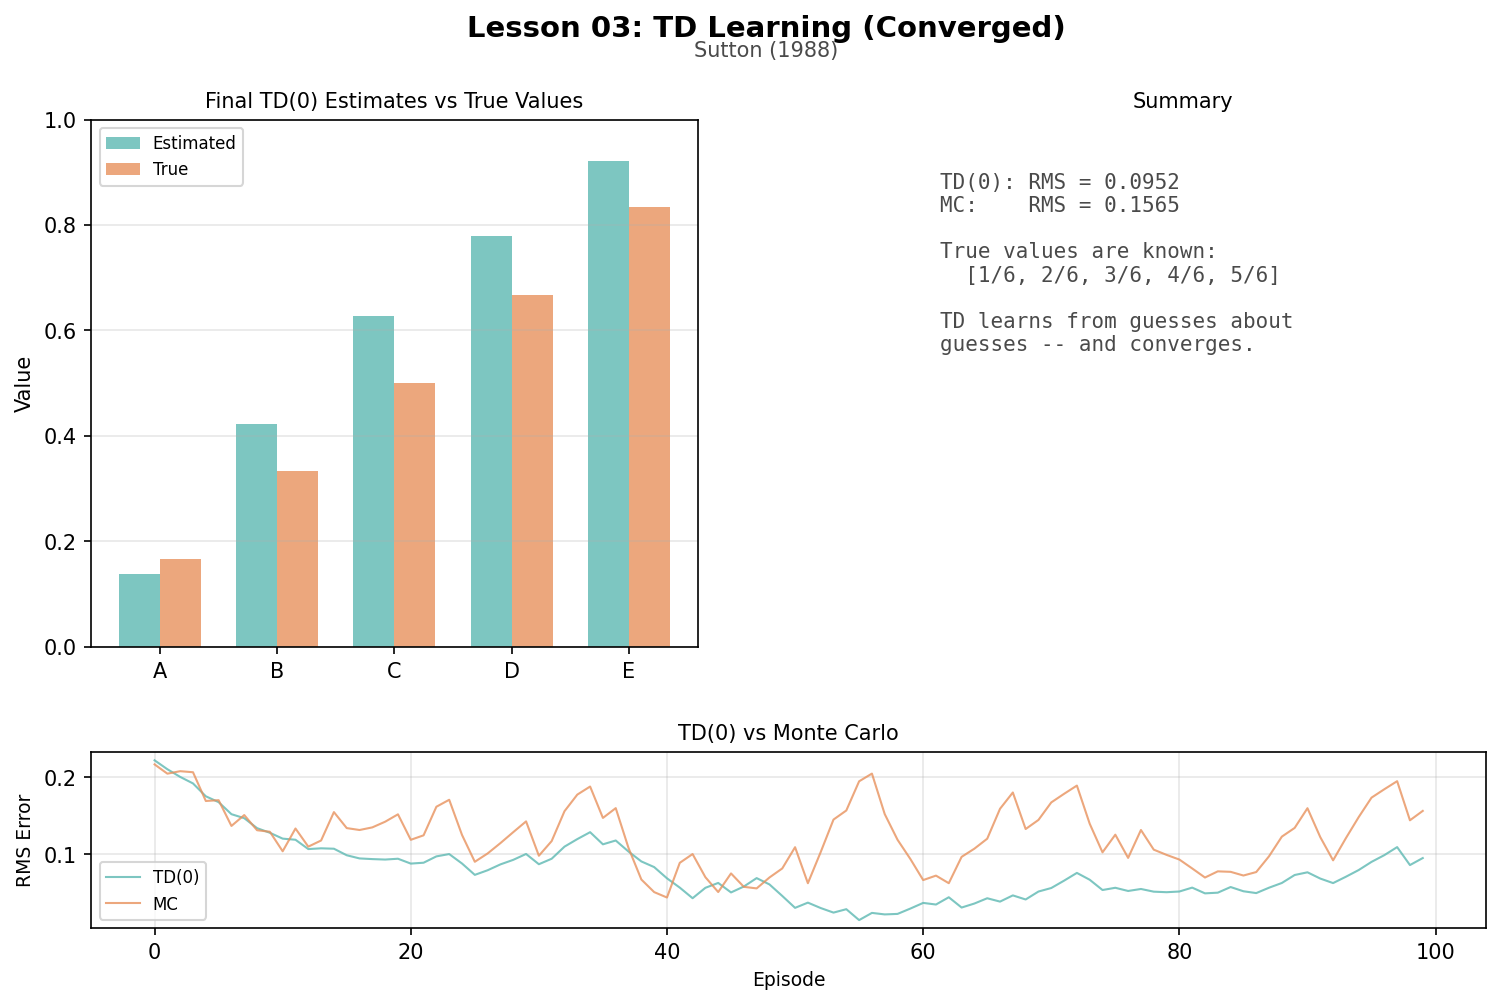
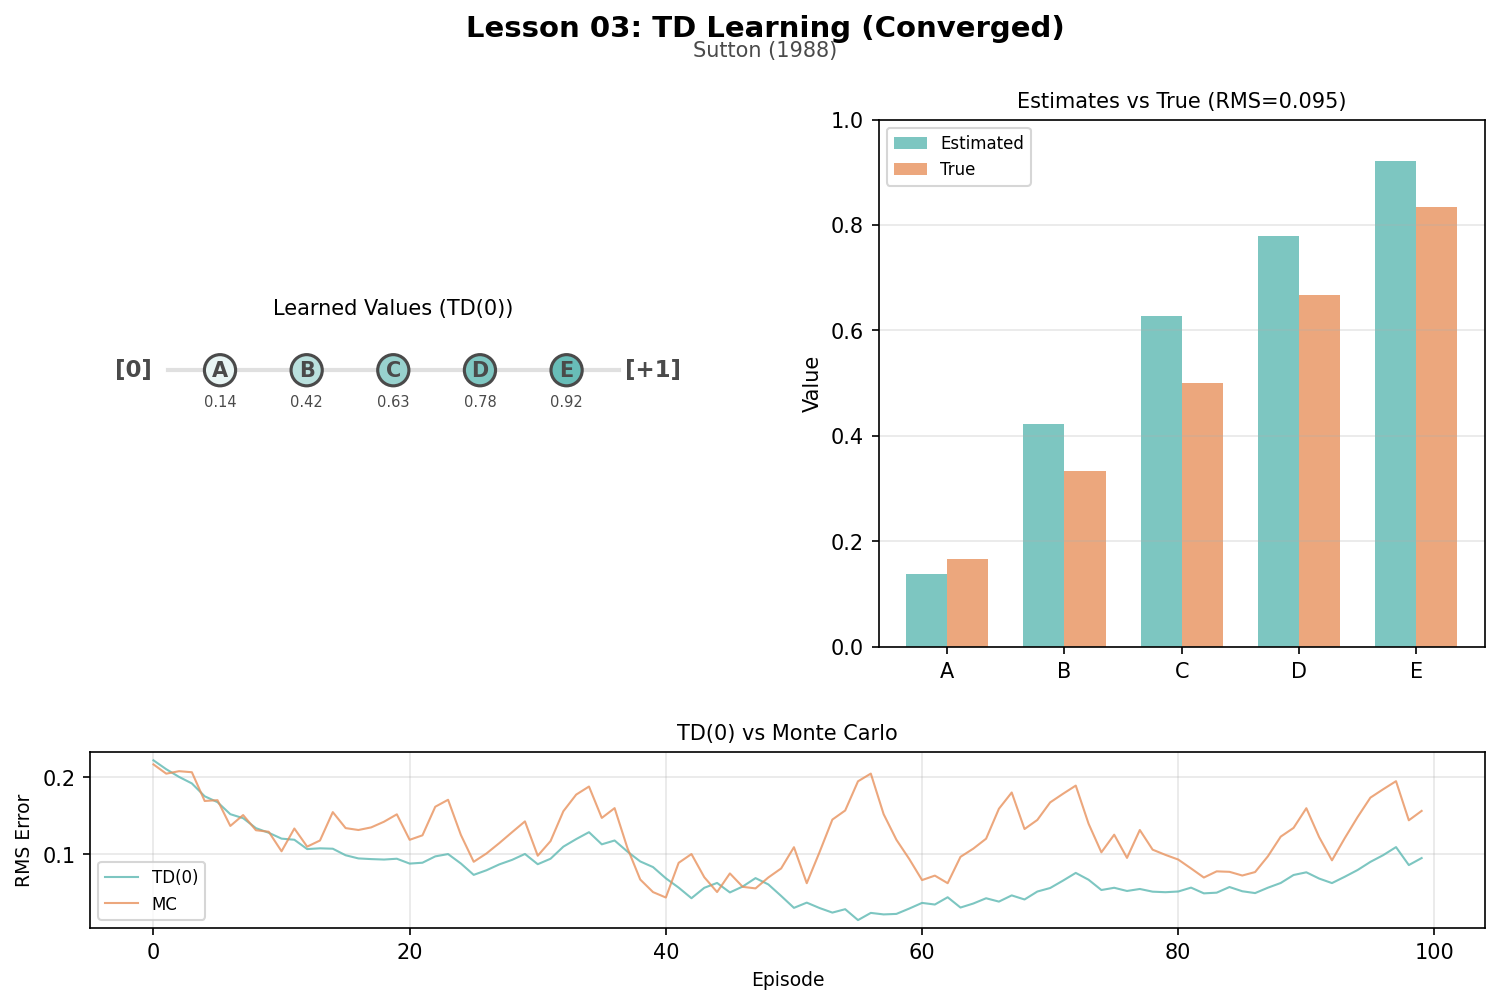
Adds chain visualization to Lesson 03 animation
trajectories.py: new draw_chain() renders a horizontal chain of
  state nodes with value-shaded fills, agent path overlay, and
  highlighted terminal outcome ([0] red / [+1] green).

td_learner.py: td_zero now records path (visited states) and
  outcome (left/right) per episode in history for viz.

03_td_learning.py: animation env pane now shows the chain diagram
  with the episode's walk path and node values. Bar chart moved
  to algo pane with RMS in the title. Poster shows chain with
  final learned values alongside bar chart comparison.

diff --git a/lessons/03_td_learning.py b/lessons/03_td_learning.py
@@ -21,6 +21,7 @@ from policywerk.viz.animate import (
 )
 from policywerk.viz.values import draw_value_bars
 from policywerk.viz.traces import update_trace_axes
+from policywerk.viz.trajectories import draw_chain
 
 import matplotlib
 matplotlib.use("Agg")
@@ -36,6 +37,8 @@ class TDSnapshot(FrameSnapshot):
     estimated: list[float]
     rms: float
     episode_num: int
+    path: list[str] | None = None
+    outcome: str | None = None
 
 
 # ---------------------------------------------------------------------------
@@ -302,6 +305,8 @@ def main():
                 estimated=h["values"],
                 rms=h["rms"],
                 episode_num=ep_idx,
+                path=h.get("path"),
+                outcome=h.get("outcome"),
             ))
 
     true_values = list(RandomWalk.TRUE_VALUES)
@@ -319,27 +324,17 @@ def main():
     def update(frame_idx):
         snap = snapshots[frame_idx]
 
-        # Top-left: bar chart of estimated vs true values
-        draw_value_bars(axes["env"], snap.estimated, true_values, labels)
-        axes["env"].set_ylim(0, 1.0)
-        axes["env"].set_title(f"Value Estimates -- Episode {snap.episode_num}", fontsize=10)
+        # Top-left: chain diagram showing the walk path and current values
+        outcome_label = snap.outcome if snap.outcome else None
+        draw_chain(axes["env"], labels, values=snap.estimated,
+                   path=snap.path, outcome=outcome_label)
+        result = f"-> {'won' if snap.outcome == 'right' else 'lost'}" if snap.outcome else ""
+        axes["env"].set_title(f"Episode {snap.episode_num} {result}", fontsize=10)
 
-        # Top-right: info
-        axes["algo"].clear()
-        axes["algo"].axis("off")
-        info_lines = [
-            f"Episode: {snap.episode_num}",
-            f"RMS error: {snap.rms:.4f}",
-            "",
-            f"Method: TD(0)",
-            f"alpha: {alpha}",
-            f"gamma: {gamma}",
-        ]
-        text = "\n".join(info_lines)
-        axes["algo"].text(0.1, 0.9, text, transform=axes["algo"].transAxes,
-                          fontsize=10, verticalalignment="top",
-                          fontfamily="monospace", color=DARK_GRAY)
-        axes["algo"].set_title("Training State", fontsize=10)
+        # Top-right: bar chart of estimated vs true values
+        draw_value_bars(axes["algo"], snap.estimated, true_values, labels)
+        axes["algo"].set_ylim(0, 1.0)
+        axes["algo"].set_title(f"Estimates vs True (RMS={snap.rms:.3f})", fontsize=10)
 
         # Bottom: RMS error trace
         n = min(snap.episode_num + 1, len(real_rms))
@@ -361,24 +356,14 @@ def main():
     )
 
     def update_poster(frame_idx):
-        draw_value_bars(axes2["env"], hist_td[-1]["values"], true_values, labels)
-        axes2["env"].set_ylim(0, 1.0)
-        axes2["env"].set_title("Final TD(0) Estimates vs True Values", fontsize=10)
+        # Chain with final learned values
+        draw_chain(axes2["env"], labels, values=hist_td[-1]["values"])
+        axes2["env"].set_title("Learned Values (TD(0))", fontsize=10)
 
-        axes2["algo"].clear()
-        axes2["algo"].axis("off")
-        info = (
-            f"TD(0): RMS = {hist_td[-1]['rms']:.4f}\n"
-            f"MC:    RMS = {hist_mc[-1]['rms']:.4f}\n\n"
-            f"True values are known:\n"
-            f"  [1/6, 2/6, 3/6, 4/6, 5/6]\n\n"
-            f"TD learns from guesses about\n"
-            f"guesses -- and converges."
-        )
-        axes2["algo"].text(0.1, 0.9, info, transform=axes2["algo"].transAxes,
-                           fontsize=10, verticalalignment="top",
-                           fontfamily="monospace", color=DARK_GRAY)
-        axes2["algo"].set_title("Summary", fontsize=10)
+        # Bar chart comparison
+        draw_value_bars(axes2["algo"], hist_td[-1]["values"], true_values, labels)
+        axes2["algo"].set_ylim(0, 1.0)
+        axes2["algo"].set_title(f"Estimates vs True (RMS={hist_td[-1]['rms']:.3f})", fontsize=10)
 
         # Show both TD and MC RMS curves
         axes2["trace"].plot(range(num_episodes), [h["rms"] for h in hist_td],

diff --git a/src/policywerk/viz/trajectories.py b/src/policywerk/viz/trajectories.py
@@ -55,6 +55,91 @@ def draw_target(
                marker="*", zorder=10, edgecolors=DARK_GRAY, linewidths=0.5)
 
 
+def draw_chain(
+    ax: plt.Axes,
+    labels: list[str],
+    values: list[float] | None = None,
+    path: list[str] | None = None,
+    outcome: str | None = None,
+) -> None:
+    """Draw a chain of states (e.g. the random walk A-B-C-D-E).
+
+    labels: state names in order (left to right).
+    values: optional value estimates for each state (shown as color fill).
+    path: optional list of state labels visited this episode (drawn as line).
+    outcome: "left" or "right" — which terminal was reached.
+    """
+    n = len(labels)
+    node_y = 0.5
+    spacing = 1.0
+
+    ax.clear()
+    ax.set_xlim(-1.5, n * spacing + 0.5)
+    ax.set_ylim(-0.3, 1.0)
+    ax.set_aspect("equal")
+    ax.axis("off")
+
+    # Draw terminal zones
+    ax.text(-1.0, node_y, "[0]", ha="center", va="center", fontsize=11,
+            fontweight="bold", color="red" if outcome == "left" else DARK_GRAY)
+    ax.text(n * spacing, node_y, "[+1]", ha="center", va="center", fontsize=11,
+            fontweight="bold", color="green" if outcome == "right" else DARK_GRAY)
+
+    # Draw connecting lines between nodes
+    for i in range(n - 1):
+        ax.plot([i * spacing + 0.2, (i + 1) * spacing - 0.2], [node_y, node_y],
+                color=LIGHT_GRAY, linewidth=2, zorder=1)
+    # Lines to terminals
+    ax.plot([-0.6, -0.2], [node_y, node_y], color=LIGHT_GRAY, linewidth=2, zorder=1)
+    ax.plot([(n - 1) * spacing + 0.2, n * spacing - 0.4], [node_y, node_y],
+            color=LIGHT_GRAY, linewidth=2, zorder=1)
+
+    # Draw the path if provided (line through visited nodes)
+    if path and len(path) > 1:
+        path_xs = []
+        path_ys = []
+        for label in path:
+            if label in labels:
+                idx = labels.index(label)
+                path_xs.append(idx * spacing)
+                path_ys.append(node_y)
+        # Add terminal position
+        if outcome == "left":
+            path_xs.append(-1.0)
+            path_ys.append(node_y)
+        elif outcome == "right":
+            path_xs.append(n * spacing)
+            path_ys.append(node_y)
+        # Offset path slightly below nodes so it's visible
+        path_ys_offset = [y - 0.12 for y in path_ys]
+        ax.plot(path_xs, path_ys_offset, color=TEAL, linewidth=1.5, alpha=0.5, zorder=2)
+
+    # Draw nodes
+    for i, label in enumerate(labels):
+        x = i * spacing
+        # Color node by value if provided
+        if values is not None:
+            val = values[i]
+            # Map value 0-1 to color intensity (white to teal)
+            r = int(255 - val * (255 - 92))   # 92 = 0x5C (TEAL red)
+            g = int(255 - val * (255 - 184))   # 184 = 0xB8 (TEAL green)
+            b = int(255 - val * (255 - 178))   # 178 = 0xB2 (TEAL blue)
+            color = f"#{r:02x}{g:02x}{b:02x}"
+        else:
+            color = "white"
+
+        circle = plt.Circle((x, node_y), 0.18, facecolor=color,
+                             edgecolor=DARK_GRAY, linewidth=1.5, zorder=5)
+        ax.add_patch(circle)
+        ax.text(x, node_y, label, ha="center", va="center",
+                fontsize=10, fontweight="bold", color=DARK_GRAY, zorder=6)
+
+        # Show value below node
+        if values is not None:
+            ax.text(x, node_y - 0.28, f"{values[i]:.2f}", ha="center",
+                    va="top", fontsize=7, color=DARK_GRAY)
+
+
 def draw_pole(
     ax: plt.Axes,
     angle: float,

diff --git a/src/policywerk/actors/td_learner.py b/src/policywerk/actors/td_learner.py
@@ -87,6 +87,8 @@ def td_zero(
 
     for ep in range(num_episodes):
         state = env.reset()
+        path: list[str] = [state.label]  # track visited states for viz
+        outcome = None
 
         while True:
             # Random policy: equal probability left/right
@@ -97,6 +99,7 @@ def td_zero(
                 # Terminal state has value 0 (no future reward)
                 # td_error = reward + gamma * 0 - V(s) = reward - V(s)
                 td_error = scalar.subtract(reward, V.get(state.label))
+                outcome = "right" if reward > 0 else "left"
             else:
                 # td_error = reward + gamma * V(s') - V(s)
                 td_error = scalar.subtract(
@@ -110,6 +113,7 @@ def td_zero(
             if done:
                 break
             state = next_state
+            path.append(state.label)
 
         # Record history for this episode
         values = [V.get(label) for label in RandomWalk.LABELS]
@@ -117,6 +121,8 @@ def td_zero(
             "episode": ep,
             "values": list(values),
             "rms": rms_error(V, RandomWalk.TRUE_VALUES, RandomWalk.LABELS),
+            "path": path,
+            "outcome": outcome,
         })
 
     return V, history
